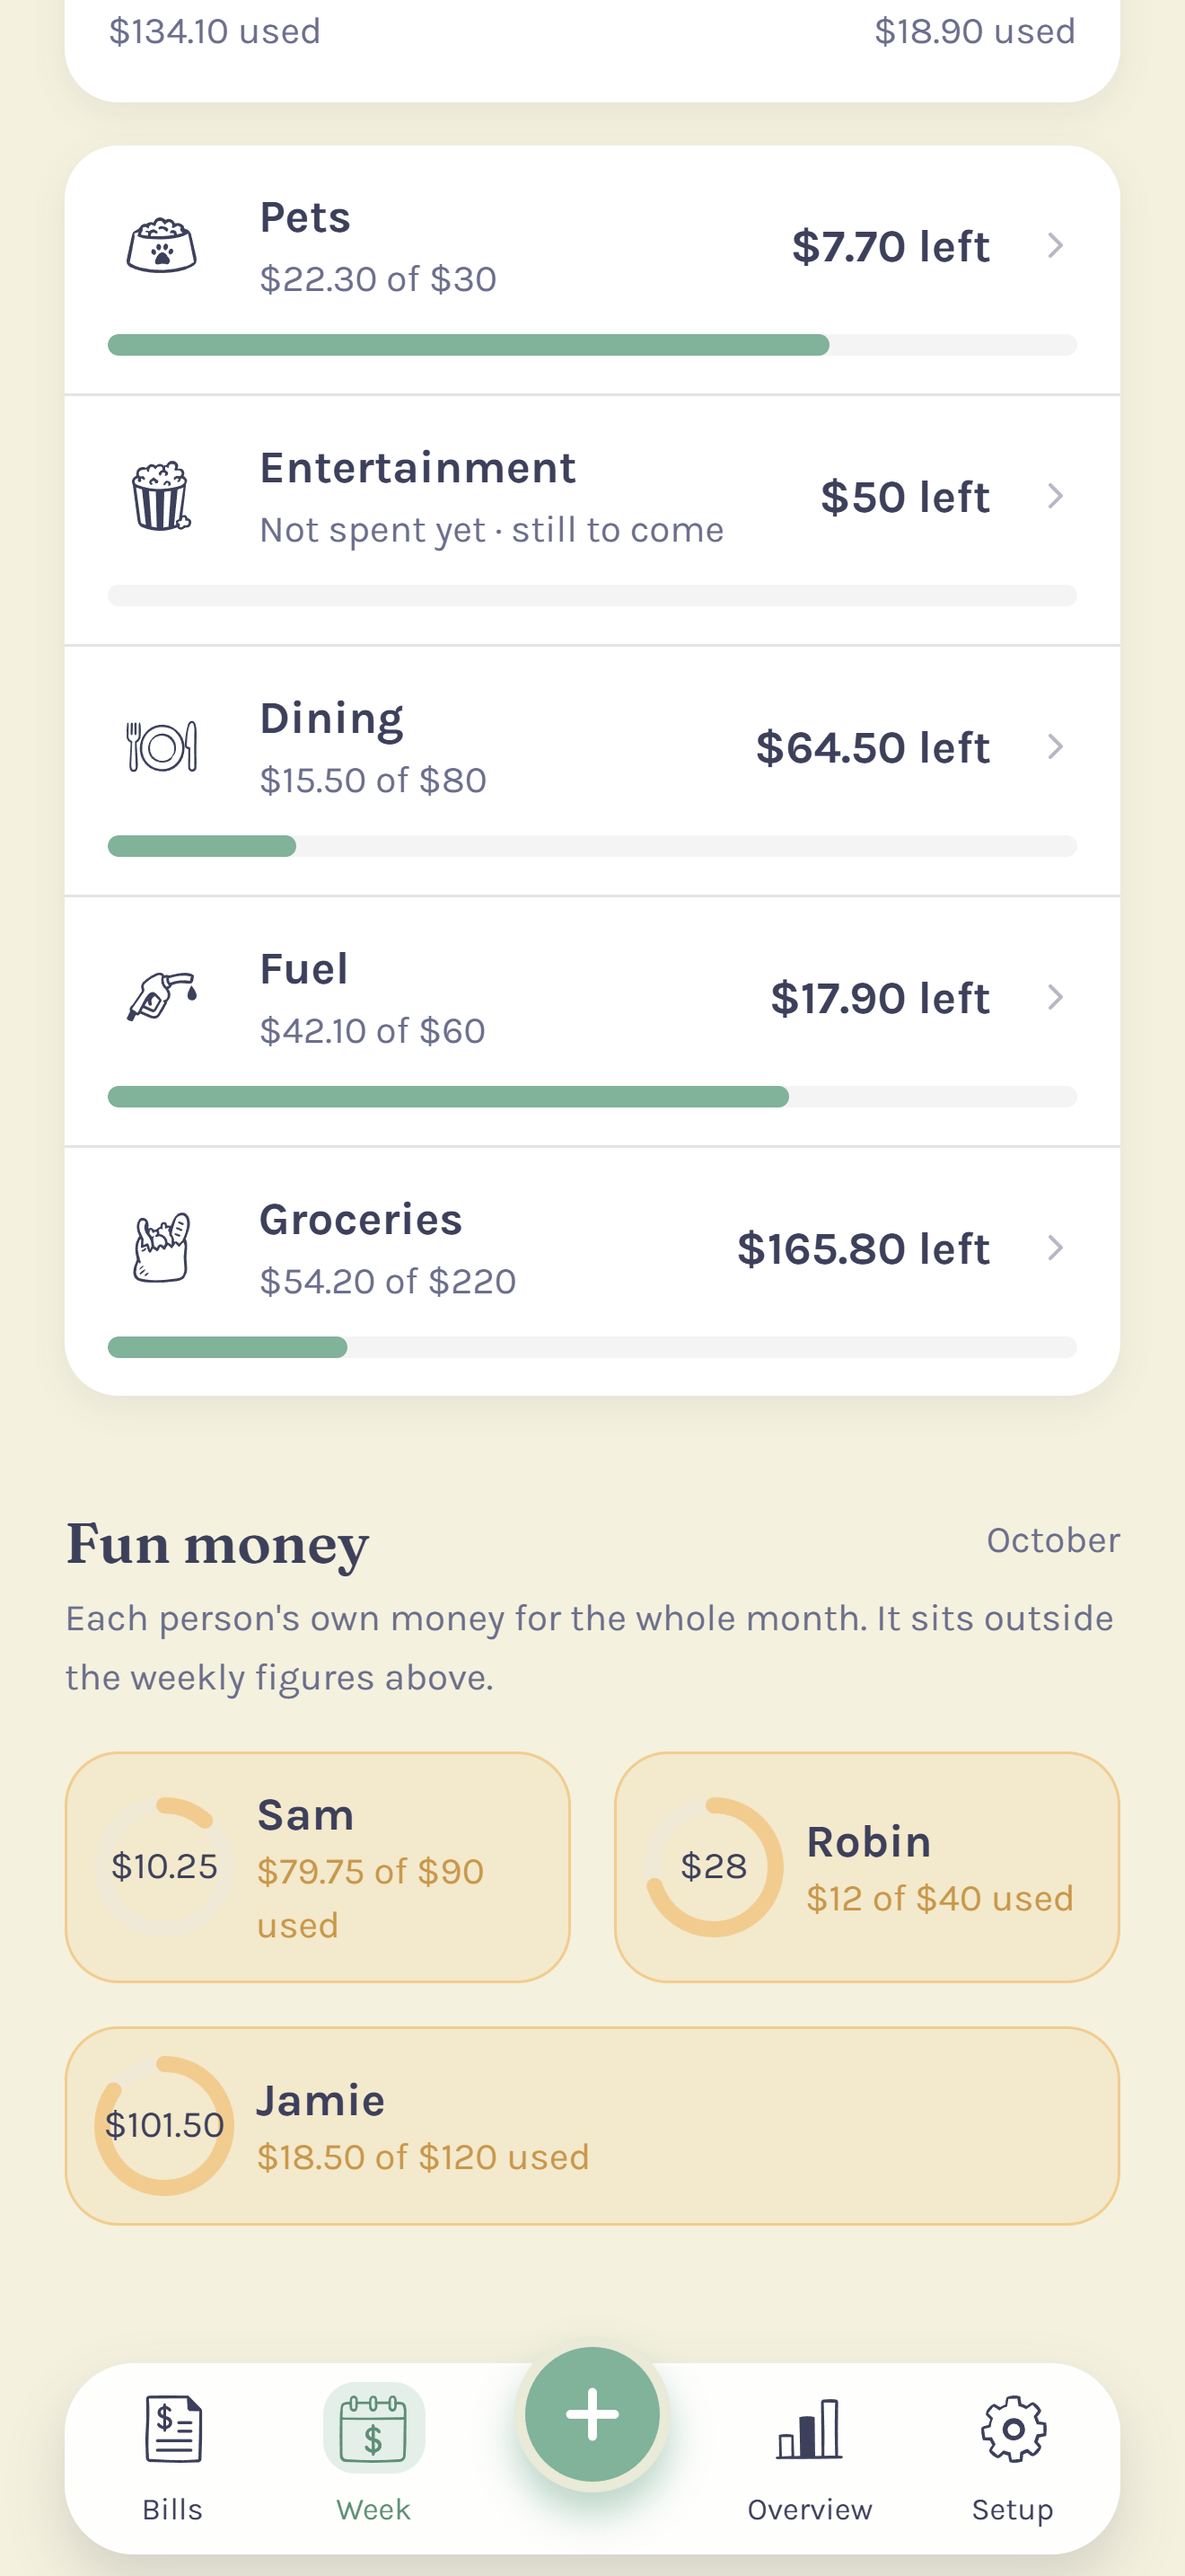
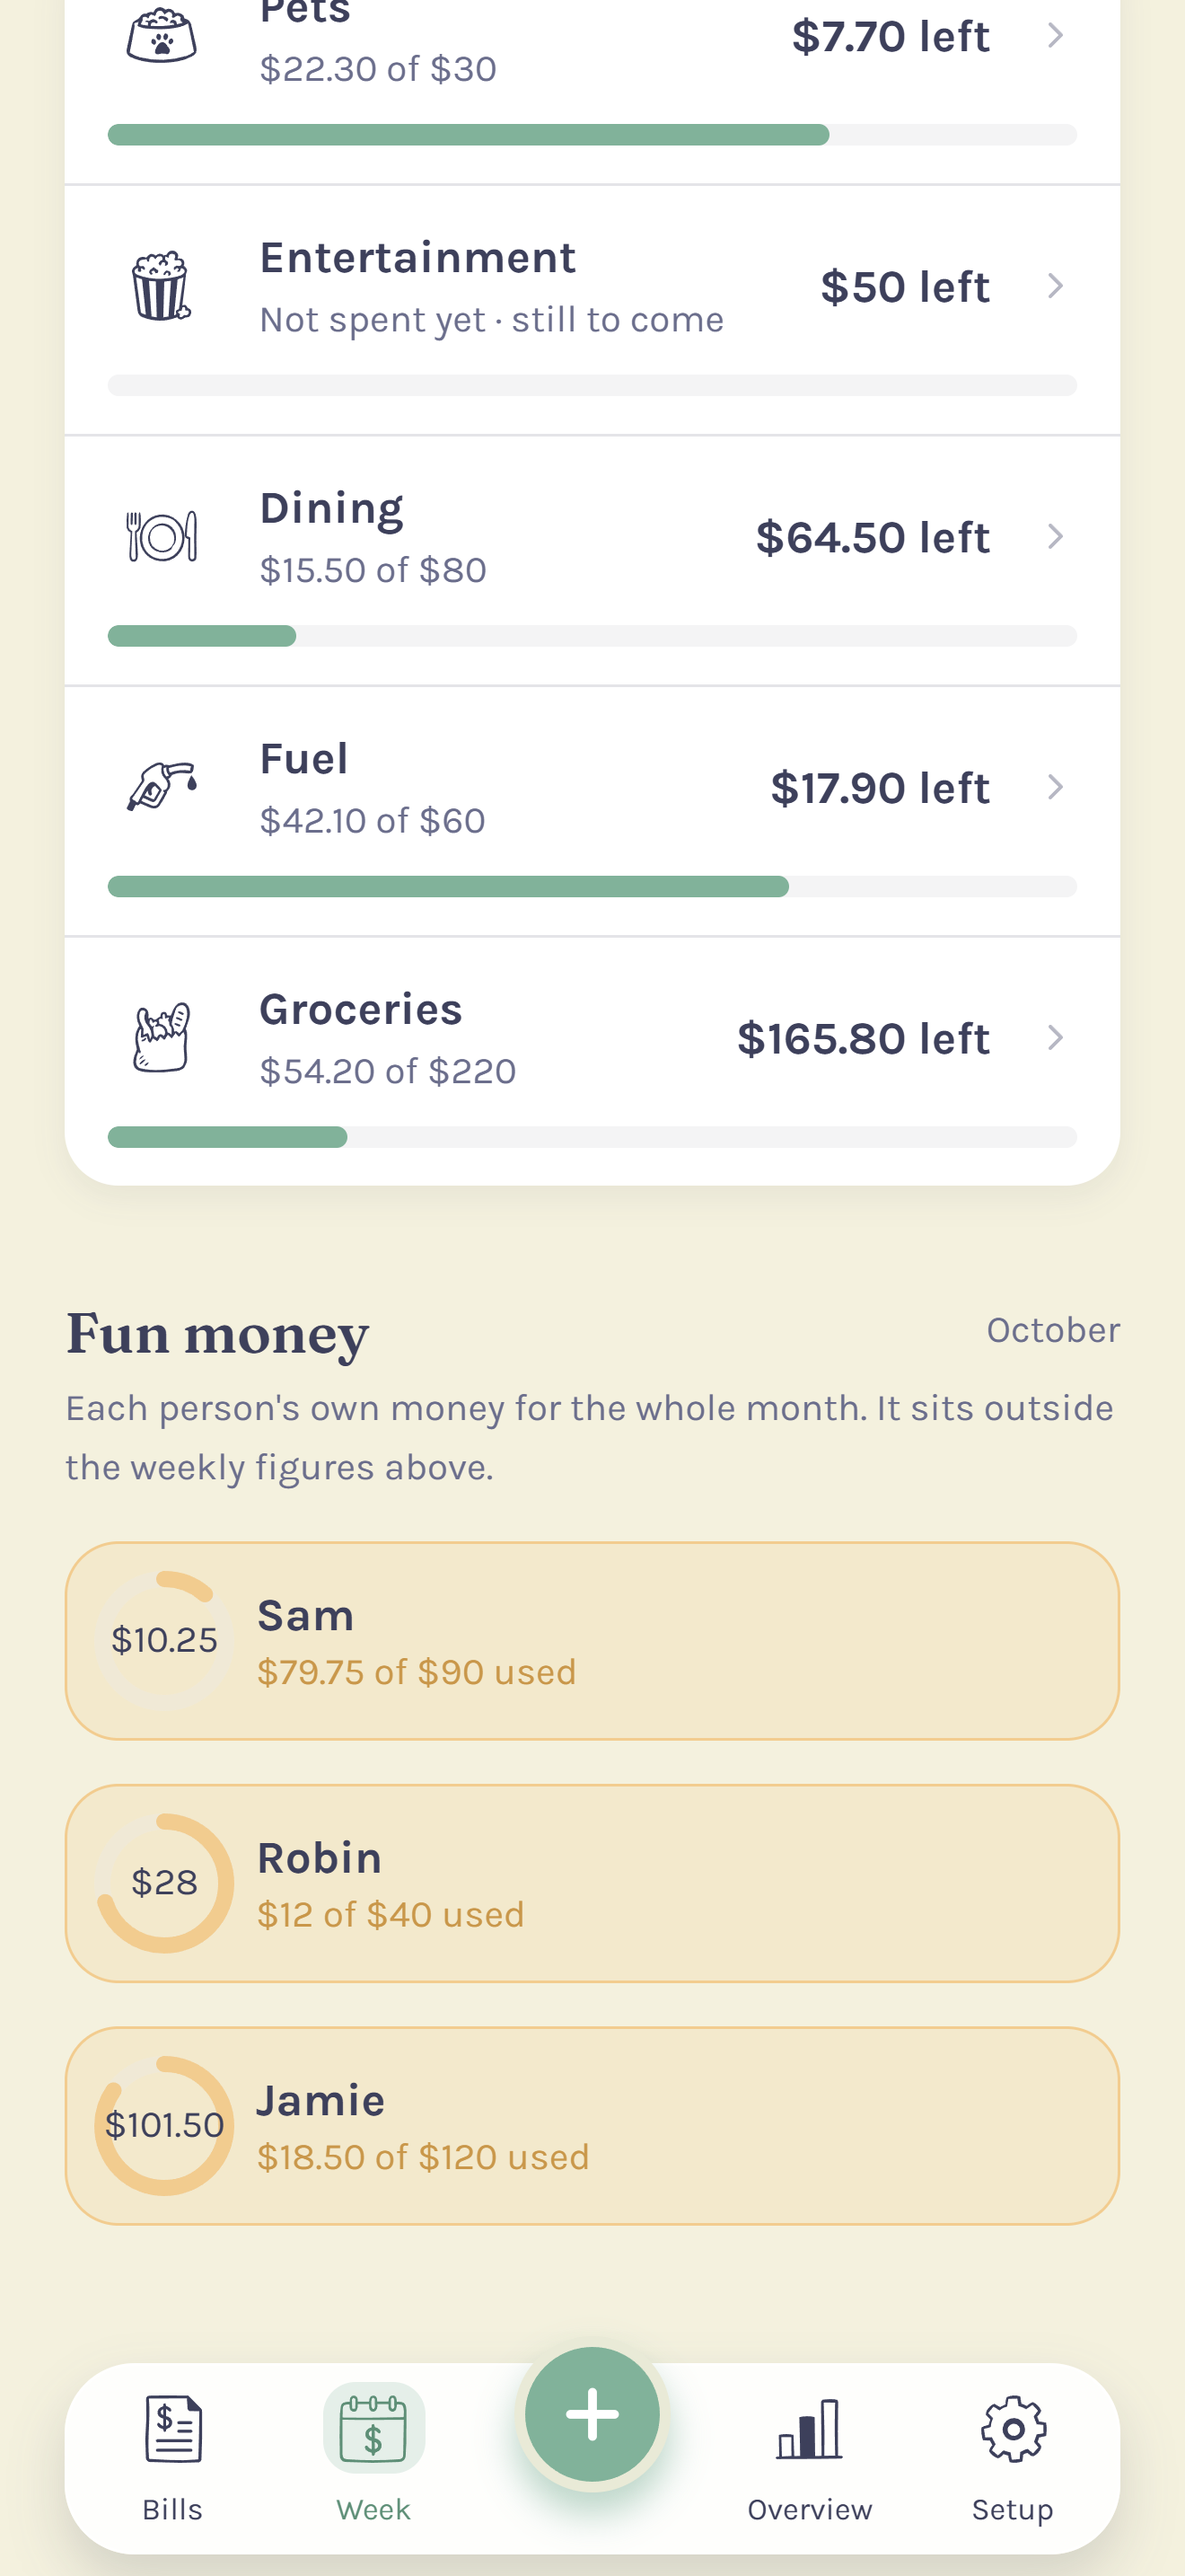
Stack the Fun money cards one per row
Side by side, longer lines like "$79.75 of $90 used" wrapped onto two lines.

diff --git a/src/app/(app)/(tabs)/week.tsx b/src/app/(app)/(tabs)/week.tsx
@@ -1275,11 +1275,9 @@ const styles = StyleSheet.create({
   },
   varianceUnder: { backgroundColor: 'rgba(129,178,154,0.16)' },
   varianceOver: { backgroundColor: 'rgba(224,122,95,0.14)' },
-  funRow: { flexDirection: 'row', flexWrap: 'wrap', gap: Spacing.three },
+  // One card per row: side by side, "$79.75 of $90 used" wrapped onto two lines.
+  funRow: { gap: Spacing.three },
   funCard: {
-    flexBasis: '47%',
-    flexGrow: 1,
-    minWidth: 150,
     flexDirection: 'row',
     alignItems: 'center',
     gap: Spacing.two,
